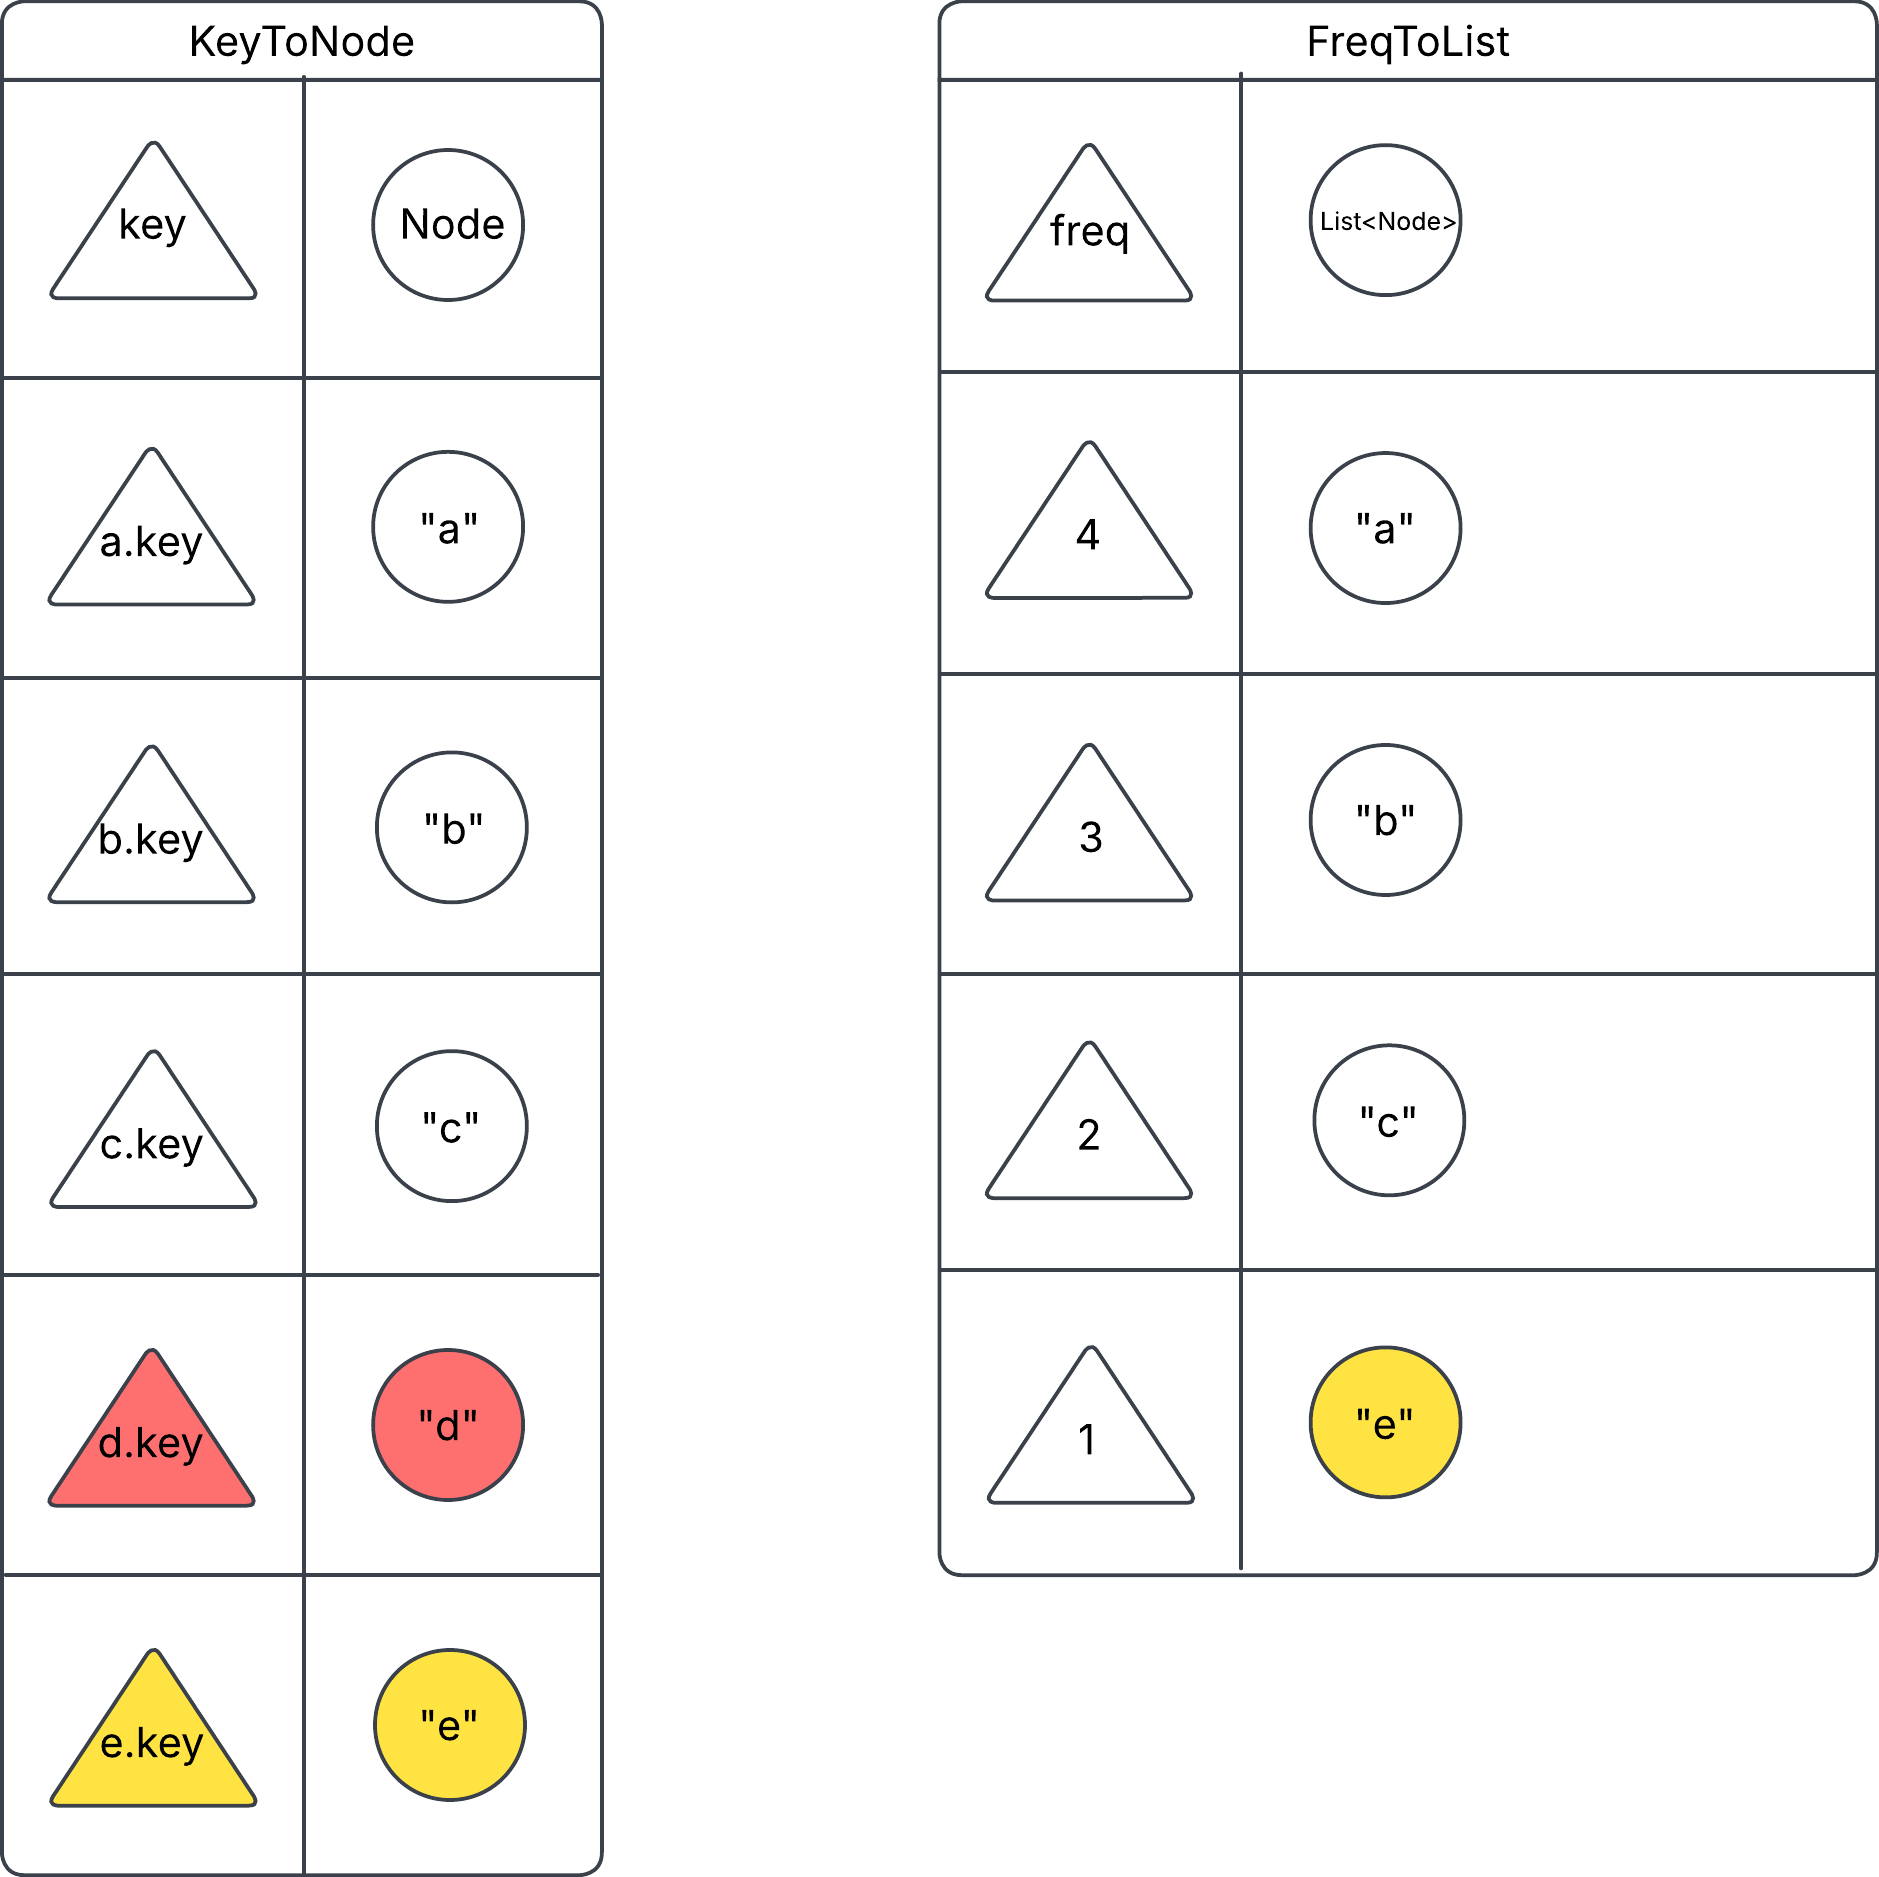
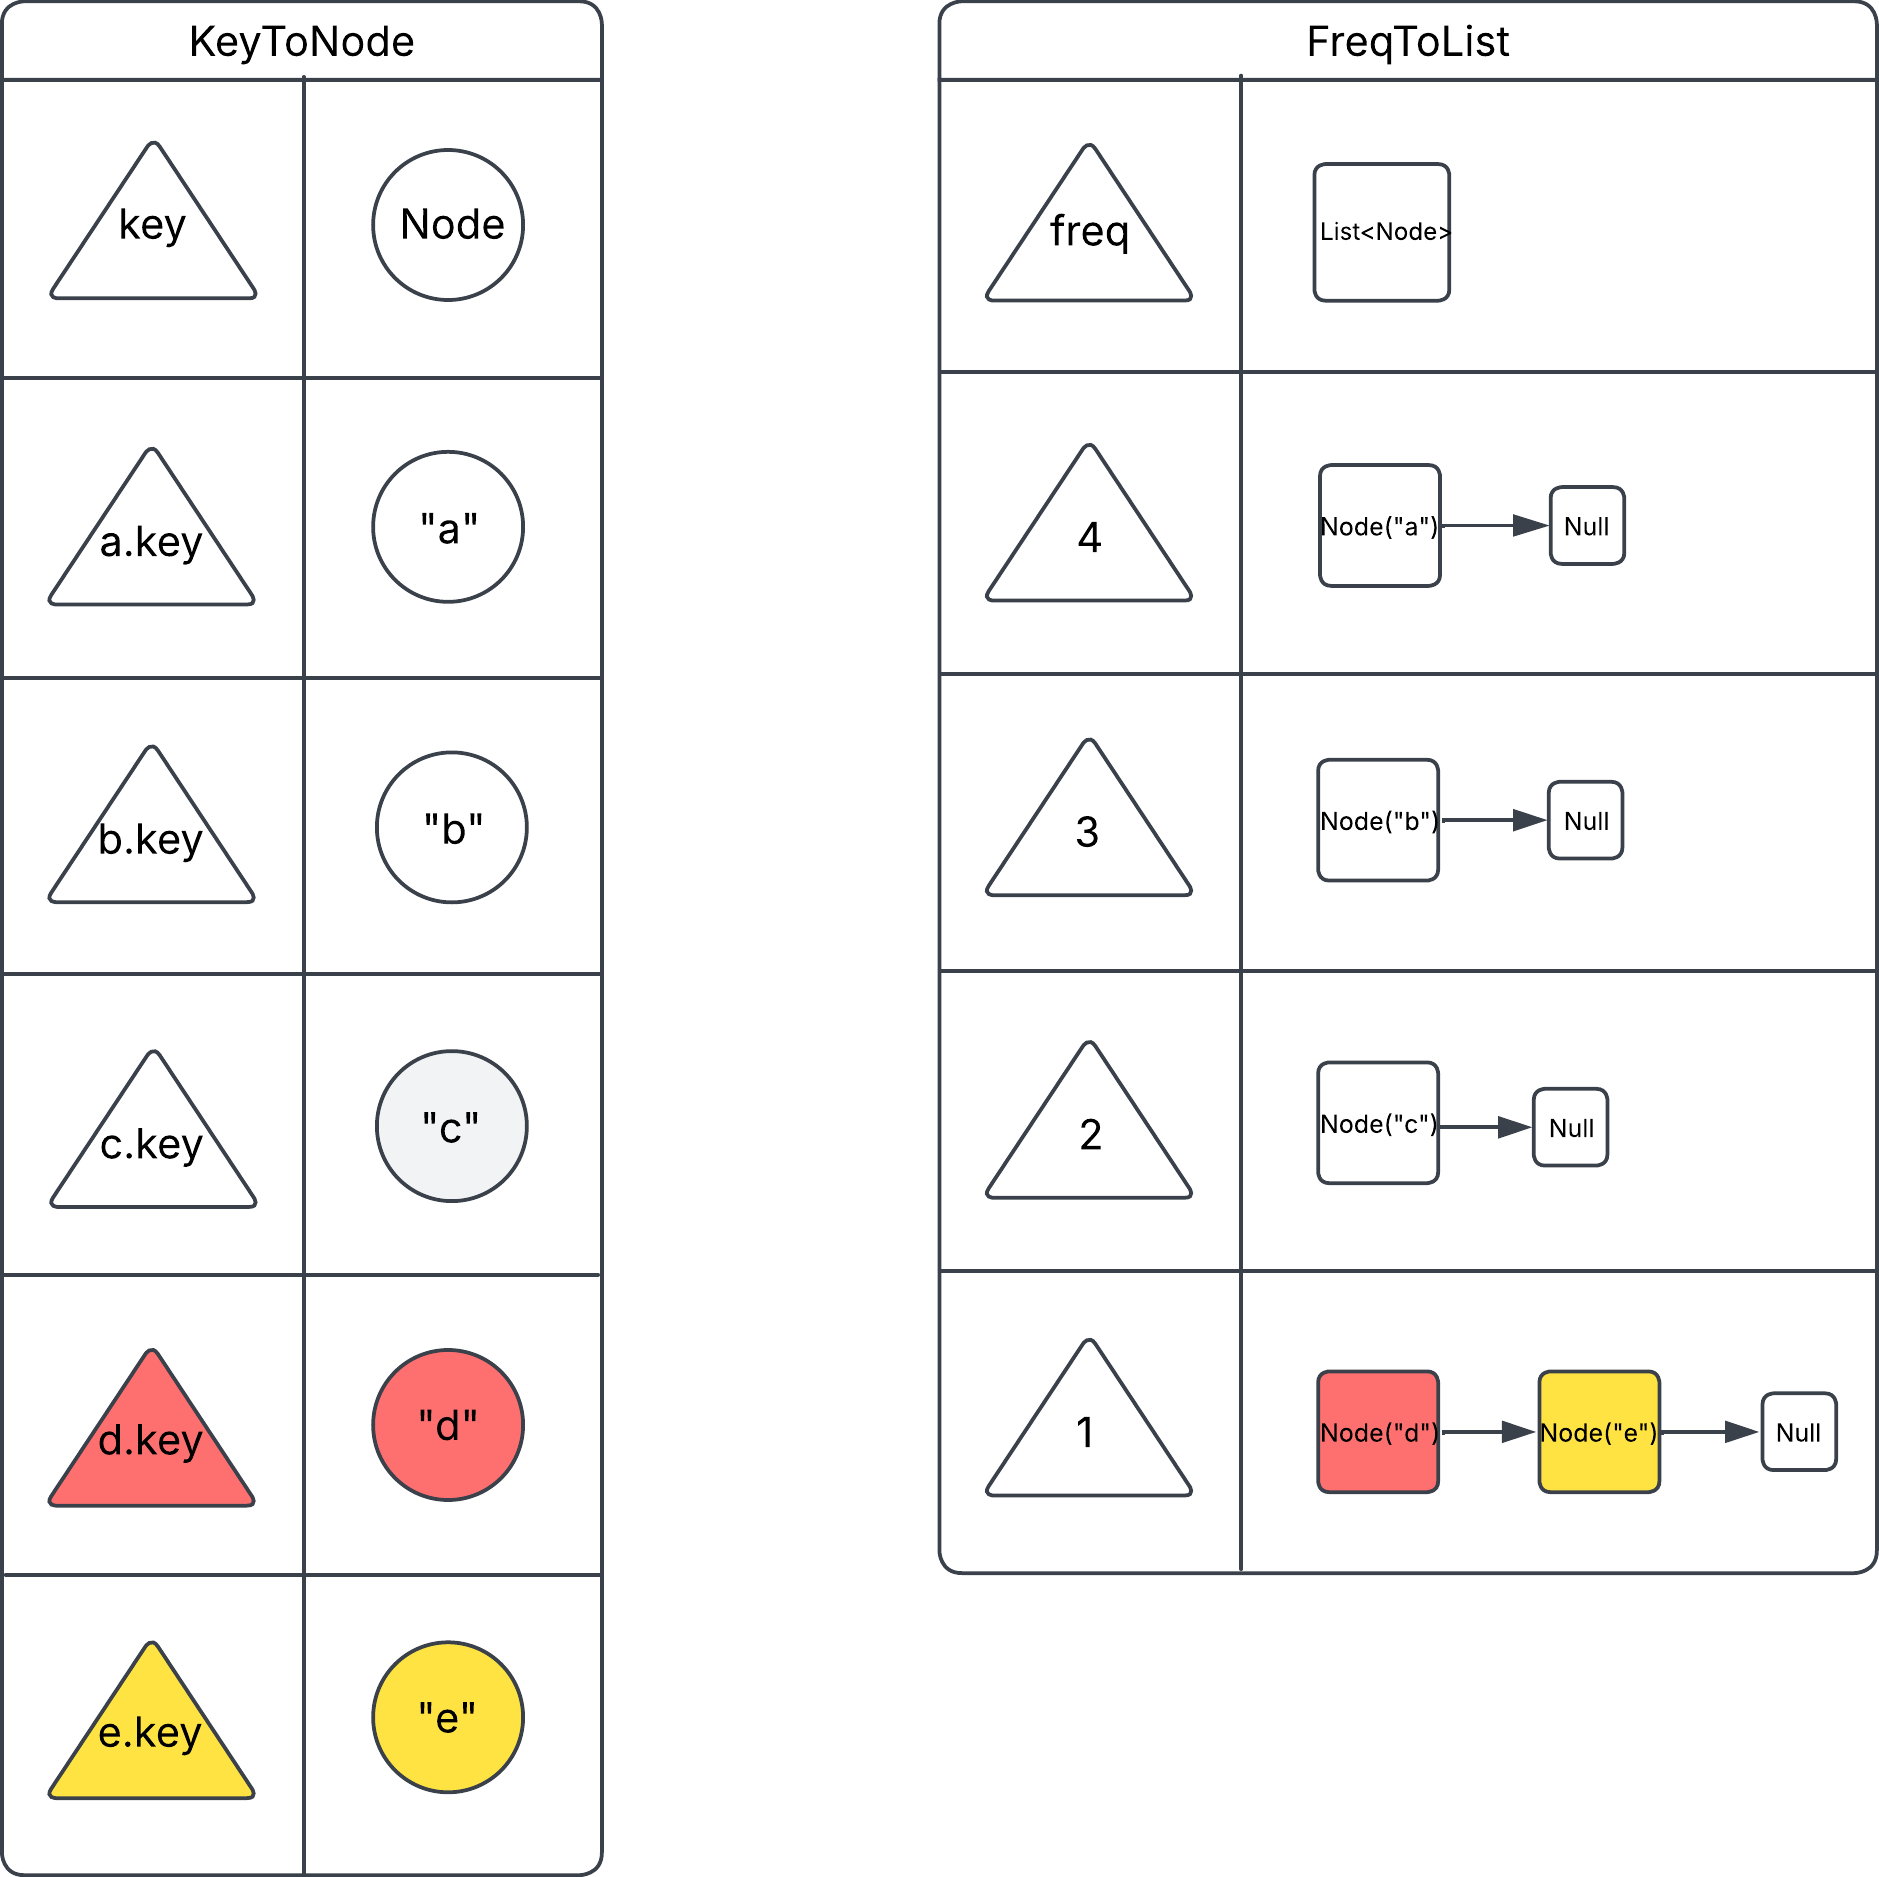
feat: updated images and subtitles

diff --git a/content/posts/eda-lfu.md b/content/posts/eda-lfu.md
@@ -184,6 +184,7 @@ O funcionamento do cache ocorre da seguinte forma: Ao realizar uma operação ge
 <figure style="align: center; width: 90%"> 
     <img src="cache-novo-elemento.png">
     <figcaption align="center">
+        Nesse caso, o nó adicionado contém o elemento "d". Para facilitar a visualização, ele foi pintado de amarelo.
     </figcaption>
 </figure>
 
@@ -192,6 +193,7 @@ O funcionamento do cache ocorre da seguinte forma: Ao realizar uma operação ge
 <figure style="align: center; width: 90%"> 
     <img src="cache-encontrou.png">
     <figcaption align="center">
+        Nesse caso, o nó encontrado contém o elemento "c". Para facilitar o entendimento, ele foi pintado de verde.
     </figcaption>
 </figure>
 
@@ -200,6 +202,7 @@ O funcionamento do cache ocorre da seguinte forma: Ao realizar uma operação ge
 <figure style="align: center; width: 90%"> 
     <img src="cache-frequencia-maxima.png">
     <figcaption align="center">
+        Para este caso, suponha que fizemos uma busca pelo elemento "b" no cache, anteriormente. Nessa situação, o hit corresponde ao nó com elemento "a". Para facilitar a compreensão, o nó "b" foi pintado de azul e o nó "a", de verde.
     </figcaption>
 </figure>
 
@@ -208,6 +211,7 @@ O funcionamento do cache ocorre da seguinte forma: Ao realizar uma operação ge
 <figure style="align: center; width: 90%"> 
     <img src="cache-evicted.png">
     <figcaption align="center">
+        Para este caso, o novo nó contém o elemento "e", e foi pintado de amarelo, e o nó removido contém o elemento "d", simbolizado por vermelho.
     </figcaption>
 </figure>
 
